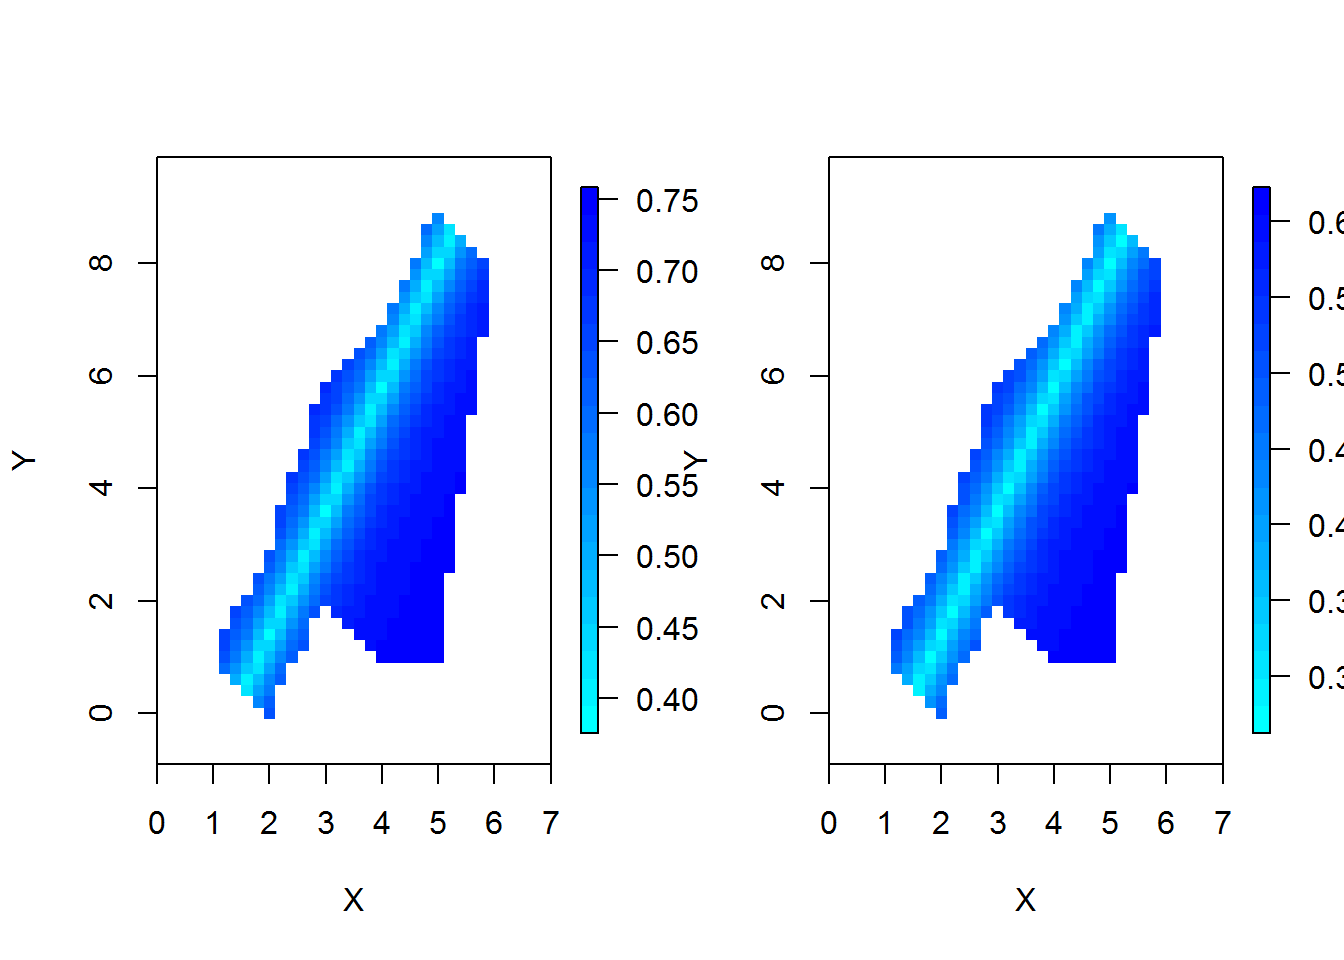
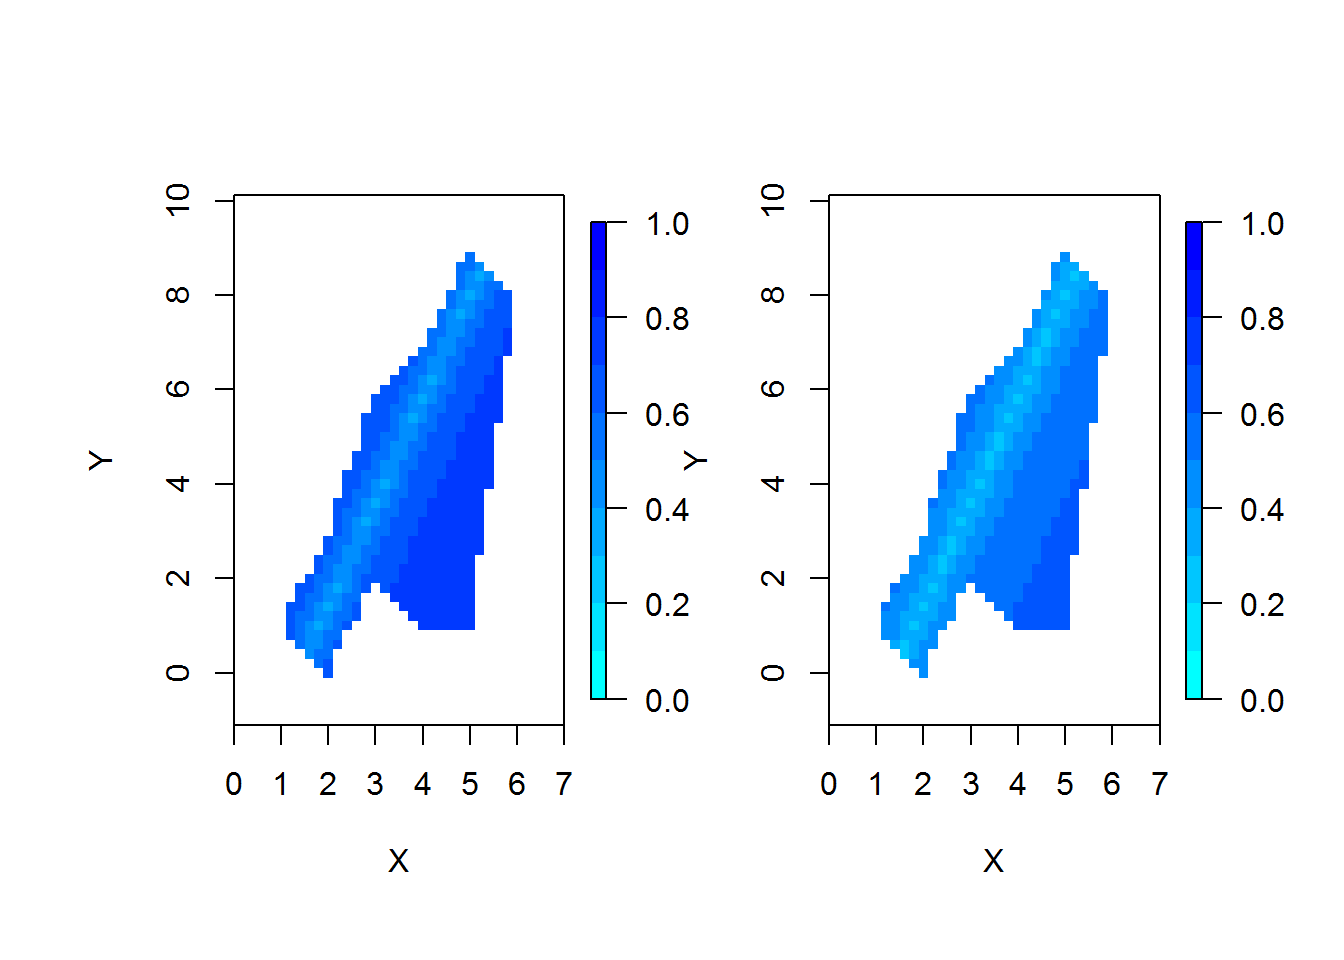
fixed class 16

diff --git a/docs/Class-16.html b/docs/Class-16.html
@@ -622,43 +622,14 @@ head(detections) # lets look at the detections</code></pre>
 ## [6,]         0         0         0         0</code></pre>
 <p>You will see now that there are a lot more 0s in the mix compared to when <span class="math inline">\(p = 1\)</span>! But the one thing that remains that same is that sites where the ‘true’ occupancy status is 0 remain as ‘0000’ but now we may have a few instance where site occupancy = 1 but the detection history is ‘0000’ as well.</p>
 <p>We can look at those instances by figuring out by binding the column of occupancy status for each site to the detection history.</p>
-<pre class="r"><code>cbind(detections, my_srs$occupied)</code></pre>
-<pre><code>##       occasion1 occasion2 occasion3 occasion4  
-##  [1,]         0         0         0         0 0
-##  [2,]         0         0         0         0 0
-##  [3,]         0         0         0         0 0
-##  [4,]         0         0         0         0 0
-##  [5,]         0         0         0         0 0
-##  [6,]         0         0         0         0 0
-##  [7,]         0         0         0         0 0
-##  [8,]         0         0         0         0 1
-##  [9,]         0         0         0         0 1
-## [10,]         0         0         0         0 0
-## [11,]         0         0         0         0 0
-## [12,]         0         0         0         0 0
-## [13,]         0         0         0         0 0
-## [14,]         0         0         0         1 1
-## [15,]         0         0         0         0 0
-## [16,]         0         0         0         0 0
-## [17,]         1         0         0         0 1
-## [18,]         0         0         0         1 1
-## [19,]         0         0         0         0 0
-## [20,]         0         0         0         0 1
-## [21,]         0         0         0         0 0
-## [22,]         0         0         0         0 0
-## [23,]         0         0         0         0 0
-## [24,]         0         0         0         0 0
-## [25,]         0         0         0         0 0
-## [26,]         0         0         0         0 1
-## [27,]         0         0         0         0 1
-## [28,]         0         0         0         0 1
-## [29,]         0         0         0         0 0
-## [30,]         0         0         0         0 1
-## [31,]         0         0         0         0 0
-## [32,]         0         0         0         0 0
-## [33,]         0         0         0         0 0
-## [34,]         0         0         0         0 0
-## [35,]         0         0         0         0 0</code></pre>
+<pre class="r"><code>head(cbind(detections, my_srs$occupied))</code></pre>
+<pre><code>##      occasion1 occasion2 occasion3 occasion4  
+## [1,]         0         0         0         0 0
+## [2,]         0         0         0         0 0
+## [3,]         0         0         0         0 0
+## [4,]         0         0         0         0 0
+## [5,]         0         0         0         0 0
+## [6,]         0         0         0         0 0</code></pre>
 <p>Now you can look at what sites are occupied but the critter was not detected!</p>
 </div>
 <div id="naive-occupancy-estimates" class="section level2">
@@ -673,7 +644,7 @@ mean(occupied) # close to 0.35?</code></pre>
 </div>
 <div id="effects-of-imperfect-detection" class="section level2">
 <h2><span class="header-section-number">2.7</span> Effects of imperfect detection</h2>
-<p>Let’s explore this for a range of <span class="math inline">\(p_i\)</span> from 0.1 to 1 to examine that effect, assuming detection probabitiy is homogenous among sites. Recall that <span class="math inline">\(\psi= 0.35\)</span>.</p>
+<p>Let’s explore this for a range of <span class="math inline">\(p_i\)</span> from 0.1 to 1 to examine that effect, assuming detection probability is homogenous among sites. Recall that <span class="math inline">\(\psi= 0.35\)</span>.</p>
 <pre class="r"><code>beta_psi_0&lt;- -0.6190392 # set occupancy probability to 0.35
 psi_i&lt;- exp(beta_psi_0)/(1+exp(beta_psi_0)) 
 psi_i # </code></pre>
@@ -727,7 +698,7 @@ abline(h=psi_i,lty=2) </code></pre>
 <h2><span class="header-section-number">2.8</span> Accounting for imperfect detection</h2>
 <p>Occupancy models estimate both <span class="math inline">\(\psi_i\)</span> and <span class="math inline">\(p_i\)</span> from detection histories assuming that <span class="math inline">\(p_i\)</span> is the conditional capture probability. Let’s see how an occupancy model for <span class="math inline">\(p_i = 0.3\)</span> works!</p>
 <p>Let’s simulate our detection histories from our original random sample. Remember the data we simulated in <code>my_srs</code>?</p>
-<pre class="r"><code>beta_p_0&lt;- -0.8472979 # set occupancy p to 0.3
+<pre class="r"><code>beta_p_0&lt;- -0.8472979 # set p to 0.3
 p_i&lt;- exp(beta_p_0)/(1+exp(beta_p_0)) 
 p_i # </code></pre>
 <pre><code>## [1] 0.3</code></pre>
@@ -748,12 +719,6 @@ head(detections) # lets look at the detections</code></pre>
 <p>Now lets fit an occupancy model to the data. First we need the unmarked package to do so.</p>
 <pre class="r"><code>#install.packages(&quot;unmarked&quot;)
 library(unmarked)</code></pre>
-<pre><code>## Warning: package &#39;unmarked&#39; was built under R version 3.1.3</code></pre>
-<pre><code>## Loading required package: reshape</code></pre>
-<pre><code>## Loading required package: lattice</code></pre>
-<pre><code>## Warning: package &#39;lattice&#39; was built under R version 3.1.3</code></pre>
-<pre><code>## Loading required package: Rcpp</code></pre>
-<pre><code>## Warning: package &#39;Rcpp&#39; was built under R version 3.1.3</code></pre>
 <p>Now we need to get our detections into a matrix for unmarked.</p>
 <pre class="r"><code>detections&lt;-  unmarkedFrameOccu(detections, 
     siteCovs=NULL, 
@@ -844,7 +809,7 @@ backTransform(fit, type=&quot;det&quot;)</code></pre>
 ## 64 64        0
 ## 85 85        0</code></pre>
 <p>Now let’s specify a relationship between a detection probability and a covariate <span class="math inline">\(X\)</span>.</p>
-<pre class="r"><code>beta_p_0&lt;- -0.8472979 # set occupancy p to 0.3
+<pre class="r"><code>beta_p_0&lt;- -0.8472979 # set p to 0.3
 beta_p_1&lt;- -0.02 #
 my_srs$X&lt;- runif(n,0,100)
 # log odds detection probability
@@ -889,49 +854,43 @@ head(detections)</code></pre>
 ## 101   0   1   0   0 101        1 26.31078 -1.373513 0.20205279
 ## 105   0   0   0   0 105        0 36.71124 -1.581523 0.17057993</code></pre>
 <p>Note we do not have any site or observation covariates at this point and therefore they are NULL.</p>
-<p>Now we can fit an occupancy model. Note that in the model equation the first tilda is for occupancy and the second is for detection. We can specify the covariate for detection probability.</p>
-<pre class="r"><code>fit &lt;- occu(~ 1 ~ X, detections)
+<p>Now we can fit an occupancy model. Note that in the model equation the first tilda is for detection and the second is for occupancy. We can specify the covariate for detection probability.</p>
+<pre class="r"><code>fit &lt;- occu(~ X ~ 1, detections)
 fit</code></pre>
 <pre><code>## 
 ## Call:
-## occu(formula = ~1 ~ X, data = detections)
+## occu(formula = ~X ~ 1, data = detections)
 ## 
 ## Occupancy:
-##             Estimate     SE      z P(&gt;|z|)
-## (Intercept)  -1.2426 1.1010 -1.129   0.259
-## X             0.0144 0.0182  0.791   0.429
+##  Estimate   SE      z P(&gt;|z|)
+##    -0.469 0.65 -0.721   0.471
 ## 
 ## Detection:
-##  Estimate    SE     z P(&gt;|z|)
-##     -1.15 0.527 -2.18  0.0294
+##              Estimate     SE       z P(&gt;|z|)
+## (Intercept) -1.161188 1.2011 -0.9668   0.334
+## X            0.000273 0.0164  0.0166   0.987
 ## 
-## AIC: 87.65522</code></pre>
+## AIC: 88.32565</code></pre>
 <p>We can extract the estimates from the fitted model as:</p>
 <pre class="r"><code>coef(fit)[1]# occupancy</code></pre>
-<pre><code>##  psi(Int) 
-## -1.242564</code></pre>
+<pre><code>##   psi(Int) 
+## -0.4687775</code></pre>
 <pre class="r"><code>coef(fit)[2]# detection</code></pre>
-<pre><code>##     psi(X) 
-## 0.01439208</code></pre>
+<pre><code>##    p(Int) 
+## -1.161188</code></pre>
 <p>As is the case with most binary (0,1) data the linear models use a logit transformation and this estimates are on logit scale. If we want the actual values we need to simple take the estimate and run in through the equation <span class="math inline">\(exp(est)/(1+exp(est))\)</span></p>
 <pre class="r"><code>occ_est_lo&lt;- coef(fit)[1]# occupancy logit
 exp(occ_est_lo)/(1+exp(occ_est_lo)) </code></pre>
-<pre><code>## psi(Int) 
-##  0.22399</code></pre>
+<pre><code>##  psi(Int) 
+## 0.3849056</code></pre>
 <pre class="r"><code>det_est_lo&lt;- coef(fit)[2]# detection logit
 exp(det_est_lo)/(1+exp(det_est_lo)) </code></pre>
-<pre><code>##   psi(X) 
-## 0.503598</code></pre>
+<pre><code>##    p(Int) 
+## 0.2384515</code></pre>
 </div>
 <div id="covariates-and-occupancy" class="section level1">
 <h1><span class="header-section-number">4</span> Covariates and occupancy</h1>
 <p>Now we can add a covariate to occupancy and detection. Suppose we have a sampling domain that looks like the figure below.</p>
-<pre><code>## Warning: package &#39;reshape2&#39; was built under R version 3.1.3</code></pre>
-<pre><code>## 
-## Attaching package: &#39;reshape2&#39;</code></pre>
-<pre><code>## The following objects are masked from &#39;package:reshape&#39;:
-## 
-##     colsplit, melt, recast</code></pre>
 <p><img src="Class-16_files/figure-html/unnamed-chunk-36-1.png" width="672" /> The data for the domain above can be read in as below.</p>
 <pre class="r"><code>dat&lt;- read.csv(&quot;occ-01.csv&quot;)</code></pre>
 <p>The increasing blue intensity represents increasing depth. Within the polygon above the true occupancy of a critter is related to depth. Specifically, the occupancy decreases with depth.</p>
@@ -947,36 +906,16 @@ dat$psi_i&lt;-exp(dat$lo_psi_i)/(1+exp(dat$lo_psi_i))</code></pre>
     data=dat,
     xlab=&quot;Depth&quot;,
     ylab=&quot;Occupancy&quot;)</code></pre>
-<p><img src="Class-16_files/figure-html/unnamed-chunk-39-1.png" width="672" /> And we can simulate whether a site is occupied or not.</p>
+<p><img src="Class-16_files/figure-html/unnamed-chunk-39-1.png" width="672" /></p>
+<p>And we can simulate whether a site is occupied or not.</p>
 <pre class="r"><code>N&lt;- nrow(dat)
 dat$occupancy&lt;- rbinom(N,1,dat$psi_i)</code></pre>
 <p>Suppose can sample 40 sites (<code>n</code>) out of the 524 possible sites (<code>N</code>). That would look like the image below.</p>
 <p>Note that this approach was a bit different then the approach above that we used the <code>which()</code> statement. If we wanted to plot the data above we can plot x,y, data with z data, depth in this case using the <code>image.plot()</code> function within the fields package.</p>
 <pre class="r"><code>#install.packages(&quot;fields&quot;)
-library(fields)</code></pre>
-<pre><code>## Warning: package &#39;fields&#39; was built under R version 3.1.3</code></pre>
-<pre><code>## Loading required package: spam</code></pre>
-<pre><code>## Warning: package &#39;spam&#39; was built under R version 3.1.3</code></pre>
-<pre><code>## Loading required package: grid</code></pre>
-<pre><code>## Spam version 1.3-0 (2015-10-24) is loaded.
-## Type &#39;help( Spam)&#39; or &#39;demo( spam)&#39; for a short introduction 
-## and overview of this package.
-## Help for individual functions is also obtained by adding the
-## suffix &#39;.spam&#39; to the function name, e.g. &#39;help( chol.spam)&#39;.</code></pre>
-<pre><code>## 
-## Attaching package: &#39;spam&#39;</code></pre>
-<pre><code>## The following object is masked from &#39;package:unmarked&#39;:
-## 
-##     mle</code></pre>
-<pre><code>## The following objects are masked from &#39;package:base&#39;:
-## 
-##     backsolve, forwardsolve</code></pre>
-<pre><code>## Loading required package: maps</code></pre>
-<pre><code>## Warning: package &#39;maps&#39; was built under R version 3.1.3</code></pre>
-<pre><code>## 
-##  # maps v3.1: updated &#39;world&#39;: all lakes moved to separate new #
-##  # &#39;lakes&#39; database. Type &#39;?world&#39; or &#39;news(package=&quot;maps&quot;)&#39;.  #</code></pre>
-<pre class="r"><code>depths&lt;- dcast(dat,x~y,value.var=&quot;depth&quot;)
+library(fields)
+library(reshape2)
+depths&lt;- dcast(dat,x~y,value.var=&quot;depth&quot;)
 x&lt;-depths[,1]
 y&lt;-as.numeric(names(depths[-1]))
 depths&lt;- as.matrix(depths[,-1])
@@ -1025,7 +964,7 @@ true_occ</code></pre>
 <div id="generate-capture-histories" class="section level2">
 <h2><span class="header-section-number">4.2</span> Generate capture histories</h2>
 <p>The code below generates detections at 20 sites over 5 occasions given the abundance at the site and a capture probability that is also related to depth.</p>
-<pre class="r"><code>beta_p_0&lt;- -0.8472979 # set occupancy p to 0.3
+<pre class="r"><code>beta_p_0&lt;- -0.8472979 # set p to 0.3
 beta_p_1&lt;- 8.8 #
 # log odds detection probability
 sampleSites$lo_p_i&lt;- beta_p_0+beta_p_1*sampleSites$velocity
@@ -1107,7 +1046,7 @@ fit</code></pre>
 dat$pred_lo_psi&lt;- betas[1] + betas[2]*dat$depth
 dat$psi_hat_i&lt;- exp(dat$pred_lo_psi)/(1+exp(dat$pred_lo_psi))</code></pre>
 <p>And we can plot and compare.</p>
-<pre class="r"><code>par(mfrow=c(1,2))
+<pre class="r"><code>par(mfrow=c(1,2),oma=c(1,2,1,2))
 
 # TRUE PSI
 psi_true&lt;- dcast(dat,x~y,value.var=&quot;psi_i&quot;)
@@ -1118,10 +1057,11 @@ image.plot(x=x,
     y=y,
     z=psi_true,
     xlim=c(0,7),
+    breaks=seq(0,1,0.1),
     xlab=&quot;X&quot;,
     ylab=&quot;Y&quot;,
     ylim=c(0,9), 
-    col=rainbow(n=20,start=3/6,end=4/6),
+    col=rainbow(n=10,start=3/6,end=4/6),
     asp=1)  
 # ESTIMATED PSI
 psi_est&lt;- dcast(dat,x~y,value.var=&quot;psi_hat_i&quot;)
@@ -1132,10 +1072,11 @@ image.plot(x=x,
     y=y,
     z=psi_est,
     xlim=c(0,7),
+    breaks=seq(0,1,0.1),
     xlab=&quot;X&quot;,
     ylab=&quot;Y&quot;,
     ylim=c(0,9), 
-    col=rainbow(n=20,start=3/6,end=4/6),
+    col=rainbow(n=10,start=3/6,end=4/6),
     asp=1)</code></pre>
 <p><img src="Class-16_files/figure-html/unnamed-chunk-53-1.png" width="672" /></p>
 </div>
